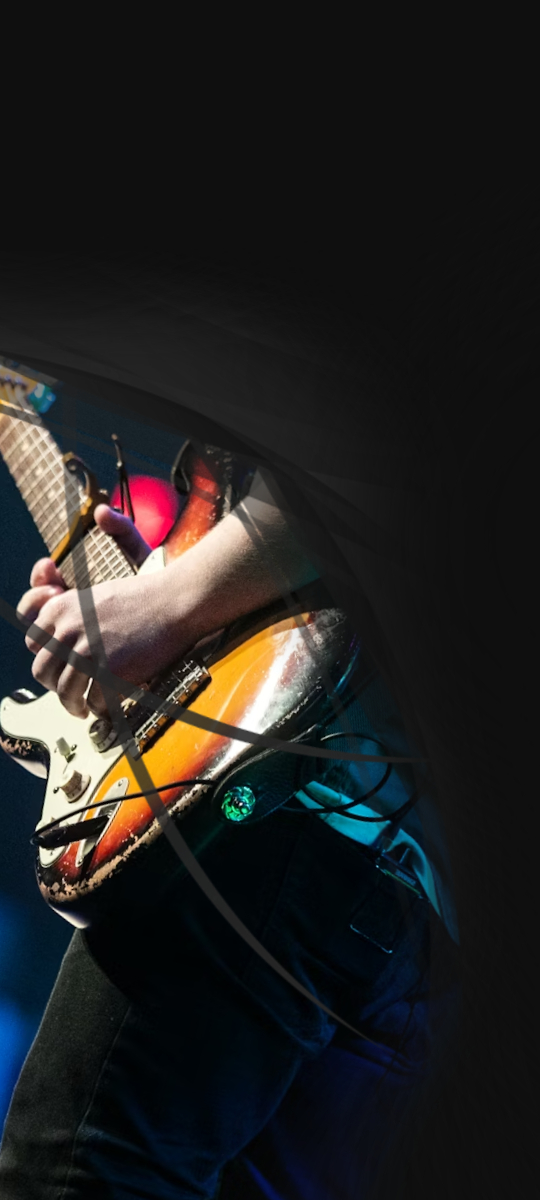
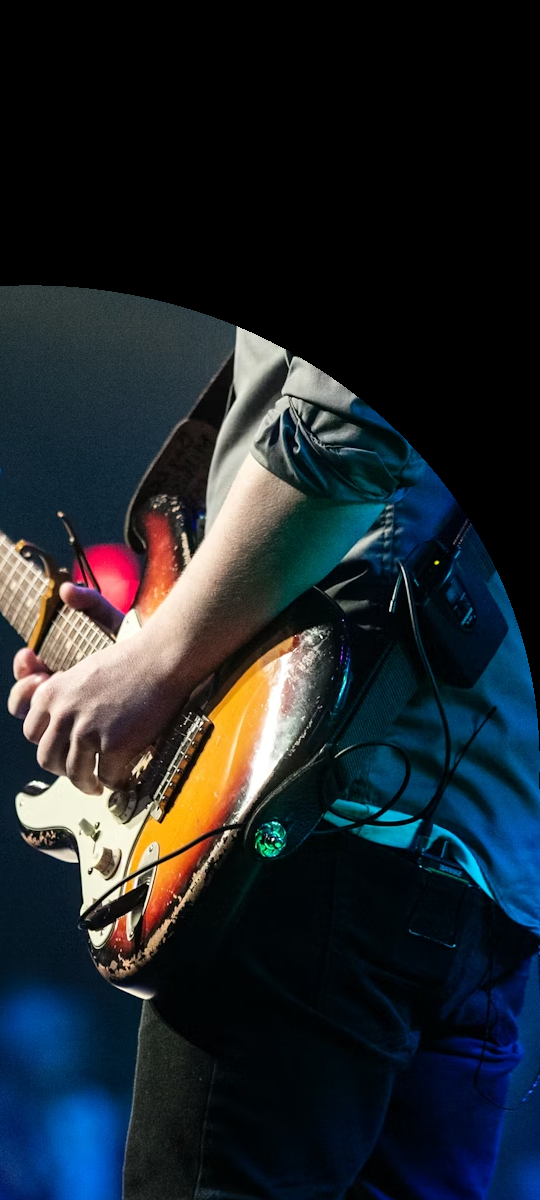
Designed auth screen. Moving onto the main dish.

diff --git a/src/app/auth/index.tsx b/src/app/auth/index.tsx
@@ -1,4 +1,4 @@
-import React, { useState } from "react";
+import React, { useState, useEffect, useRef } from "react";
 import {
   View,
   Text,
@@ -7,6 +7,7 @@ import {
   KeyboardAvoidingView,
   Platform,
   Image,
+  Animated,
 } from "react-native";
 import { useRouter } from "expo-router";
 import { db } from "@/lib/instantdb";
@@ -15,30 +16,68 @@ export default function AuthPage() {
   const [email, setEmail] = useState("");
   const [code, setCode] = useState("");
   const [sentEmail, setSentEmail] = useState(false);
+  const [emailError, setEmailError] = useState("");
+  const [codeError, setCodeError] = useState("");
   const router = useRouter();
+  const slideAnim = useRef(new Animated.Value(0)).current;
 
   const { user } = db.useAuth();
 
-  React.useEffect(() => {
+  useEffect(() => {
     if (user) {
       router.push("/home");
     }
   }, [user]);
 
+  useEffect(() => {
+    Animated.spring(slideAnim, {
+      toValue: sentEmail ? 1 : 0,
+      useNativeDriver: true,
+      tension: 50,
+      friction: 8,
+    }).start();
+  }, [sentEmail]);
+
+  const validateEmail = (email: string) => {
+    const emailRegex = /^[^\s@]+@[^\s@]+\.[^\s@]+$/;
+    return emailRegex.test(email);
+  };
+
   const sendMagicCode = async () => {
+    setEmailError("");
+
+    if (!email.trim()) {
+      setEmailError("Email is required");
+      return;
+    }
+
+    if (!validateEmail(email)) {
+      setEmailError("Invalid email format");
+      return;
+    }
+
     try {
       await db.auth.sendMagicCode({ email });
       setSentEmail(true);
     } catch (error) {
       console.error("Error sending magic code:", error);
+      setEmailError("Failed to send code. Please try again.");
     }
   };
 
   const verifyCode = async () => {
+    setCodeError("");
+
+    if (!code.trim()) {
+      setCodeError("Code is required");
+      return;
+    }
+
     try {
       await db.auth.signInWithMagicCode({ email, code });
     } catch (error) {
       console.error("Error verifying code:", error);
+      setCodeError("Invalid code. Please try again.");
     }
   };
 
@@ -48,18 +87,55 @@ export default function AuthPage() {
         behavior={Platform.OS === "ios" ? "padding" : "height"}
         style={{ flex: 1, backgroundColor: "#0F0F0F" }}
       >
-        <View
+        <Image
+          source={require("../static/trying1.jpg")}
+          style={{
+            position: "absolute",
+            width: "100%",
+            height: "100%",
+            opacity: 0.4,
+          }}
+          resizeMode="cover"
+        />
+        <View className="absolute z-10 w-screen bottom-10 items-center justify-center p-2">
+          <Text className="text-4xl text-green-400 font-extrabold">
+            Speak your Music.
+          </Text>
+          <Text className="text-sm text-white">
+            Copyright 2025 Meli. All rights reserved.
+          </Text>
+        </View>
+        <Animated.View
           style={{
             flex: 1,
             justifyContent: "center",
             alignItems: "center",
             paddingHorizontal: 24,
+            transform: [
+              {
+                translateX: slideAnim.interpolate({
+                  inputRange: [0, 1],
+                  outputRange: [300, 0],
+                }),
+              },
+            ],
+            opacity: slideAnim,
           }}
         >
           <Text
             style={{
-              fontSize: 30,
+              fontSize: 60,
               fontWeight: "bold",
+              marginBottom: 8,
+              color: "#FFFFFF",
+            }}
+          >
+            GeneChords
+          </Text>
+          <Text
+            style={{
+              fontSize: 20,
+              fontWeight: "600",
               marginBottom: 8,
               color: "#FFFFFF",
             }}
@@ -78,11 +154,11 @@ export default function AuthPage() {
               borderRadius: 12,
               paddingHorizontal: 16,
               paddingVertical: 12,
-              marginBottom: 16,
+              marginBottom: codeError ? 8 : 16,
               backgroundColor: "#1A1A1A",
               color: "#FFFFFF",
               borderWidth: 1,
-              borderColor: "#262626",
+              borderColor: codeError ? "#EF4444" : "#262626",
             }}
             placeholder="Enter code"
             placeholderTextColor="#737373"
@@ -91,6 +167,19 @@ export default function AuthPage() {
             keyboardType="number-pad"
             autoFocus
           />
+
+          {codeError ? (
+            <Text
+              style={{
+                color: "#EF4444",
+                fontSize: 14,
+                marginBottom: 16,
+                width: "100%",
+              }}
+            >
+              {codeError}
+            </Text>
+          ) : null}
 
           <TouchableOpacity
             style={{
@@ -111,7 +200,7 @@ export default function AuthPage() {
           <TouchableOpacity onPress={() => setSentEmail(false)}>
             <Text style={{ color: "#A3A3A3" }}>Use different email</Text>
           </TouchableOpacity>
-        </View>
+        </Animated.View>
       </KeyboardAvoidingView>
     );
   }
@@ -121,18 +210,48 @@ export default function AuthPage() {
       behavior={Platform.OS === "ios" ? "padding" : "height"}
       style={{ flex: 1, backgroundColor: "#0F0F0F" }}
     >
-      <Image src="../static/trying1.jpg" />
-      <View
+      <View className="absolute z-10 w-screen bottom-10 items-center justify-center p-2">
+        <Text className="text-4xl text-green-400 font-extrabold">
+          Speak your Music.
+        </Text>
+        <Text className="text-sm text-white">
+          Copyright 2025 Meli. All rights reserved.
+        </Text>
+      </View>
+      <Image
+        source={require("../static/trying1.jpg")}
+        style={{
+          position: "absolute",
+          width: "100%",
+          height: "100%",
+          opacity: 0.4,
+        }}
+        resizeMode="cover"
+      />
+
+      <Animated.View
         style={{
           flex: 1,
           justifyContent: "center",
           alignItems: "center",
           paddingHorizontal: 24,
+          transform: [
+            {
+              translateX: slideAnim.interpolate({
+                inputRange: [0, 1],
+                outputRange: [0, -300],
+              }),
+            },
+          ],
+          opacity: slideAnim.interpolate({
+            inputRange: [0, 1],
+            outputRange: [1, 0],
+          }),
         }}
       >
         <Text
           style={{
-            fontSize: 48,
+            fontSize: 60,
             fontWeight: "bold",
             marginBottom: 8,
             color: "#FFFFFF",
@@ -153,11 +272,11 @@ export default function AuthPage() {
             borderRadius: 12,
             paddingHorizontal: 16,
             paddingVertical: 12,
-            marginBottom: 16,
+            marginBottom: emailError ? 8 : 16,
             backgroundColor: "#1A1A1A",
             color: "#FFFFFF",
             borderWidth: 1,
-            borderColor: "#262626",
+            borderColor: emailError ? "#EF4444" : "#262626",
           }}
           placeholder="Enter your email"
           placeholderTextColor="#737373"
@@ -167,6 +286,19 @@ export default function AuthPage() {
           autoCapitalize="none"
           autoComplete="email"
         />
+
+        {emailError ? (
+          <Text
+            style={{
+              color: "#EF4444",
+              fontSize: 14,
+              marginBottom: 16,
+              width: "100%",
+            }}
+          >
+            {emailError}
+          </Text>
+        ) : null}
 
         <TouchableOpacity
           style={{
@@ -182,7 +314,7 @@ export default function AuthPage() {
             Continue with Email
           </Text>
         </TouchableOpacity>
-      </View>
+      </Animated.View>
     </KeyboardAvoidingView>
   );
 }
